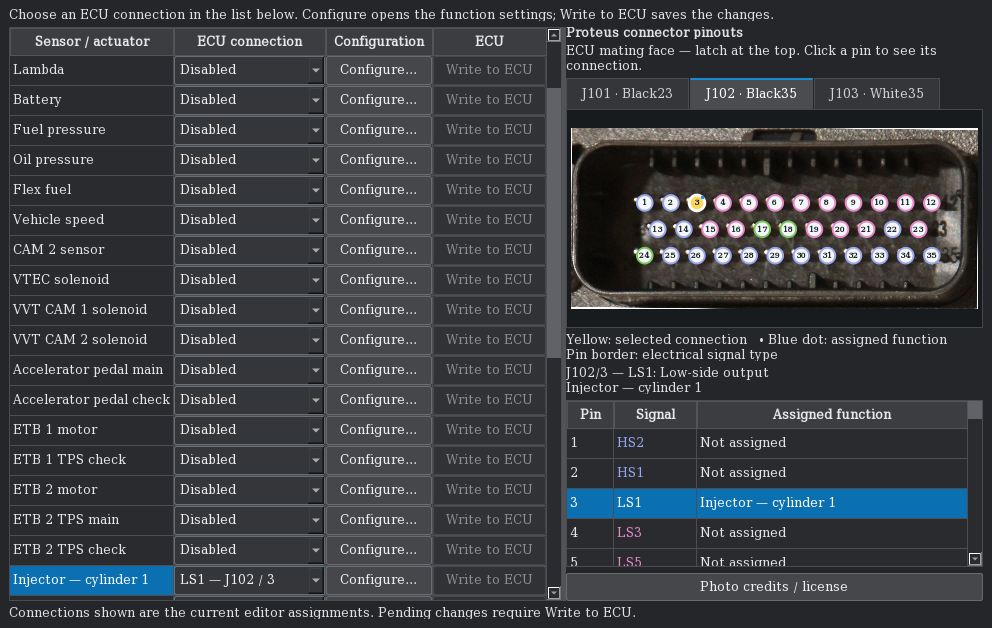
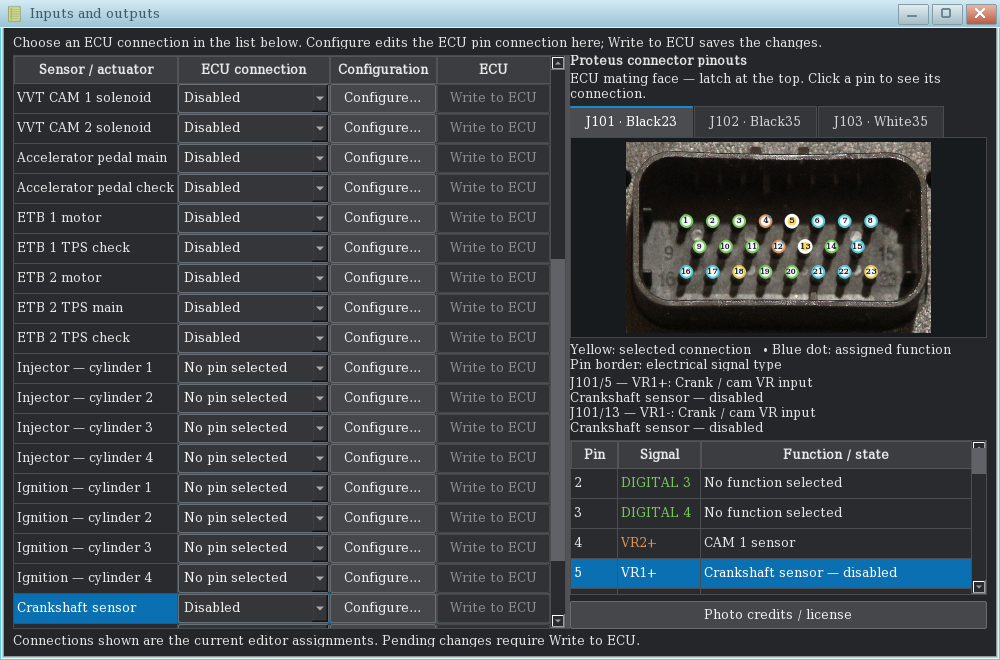
Show the ECU pin dialog and disabled dedicated input in the I/O guide

diff --git a/funcoes-entradas-saidas.md b/funcoes-entradas-saidas.md
@@ -69,3 +69,11 @@ Validação local: 17/17 testes aprovados e verificação visual dos três conec
 Testes adicionais da correção: Configure da cambota abre ECU pin mantendo a mesma janela MDI; os dois contactos dedicados continuam identificados com captura desativada; escolher sem aplicar e fechar preserva o projeto; Apply altera a ligação no editor sem gravação automática; restauração preserva os restantes campos. Verificação visual da janela com o tema da aplicação.
 
 [Compilação e testes Windows desta correção](https://github.com/Tunuino/Tunuino/actions/runs/44379756152).
+
+## Configuração do pino na interface
+
+![Pino dedicado da cambota identificado com a captura desativada](images/console/proteus-pinout-io.png)
+
+![Configure abre a ligação do pino da ECU](images/console/ecu-pin-configuration.png)
+
+Capturas locais de teste, sem ECU ligada. A primeira mostra a função dedicada desativada; a segunda mostra a escolha preparada antes de aplicar. Créditos e termos das fotografias integradas: [PHOTO-LICENSE.txt](https://github.com/Tunuino/Tunuino/blob/3310233196c776a7f92877443c40e00e8b2b75df/qt_console/assets/proteus/PHOTO-LICENSE.txt).
